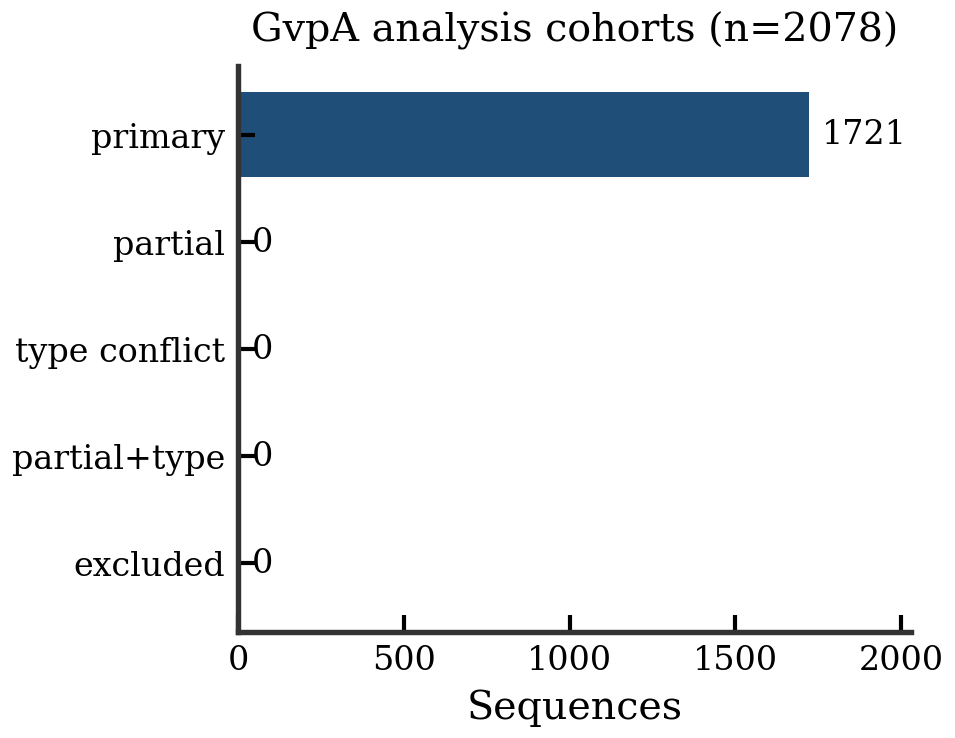
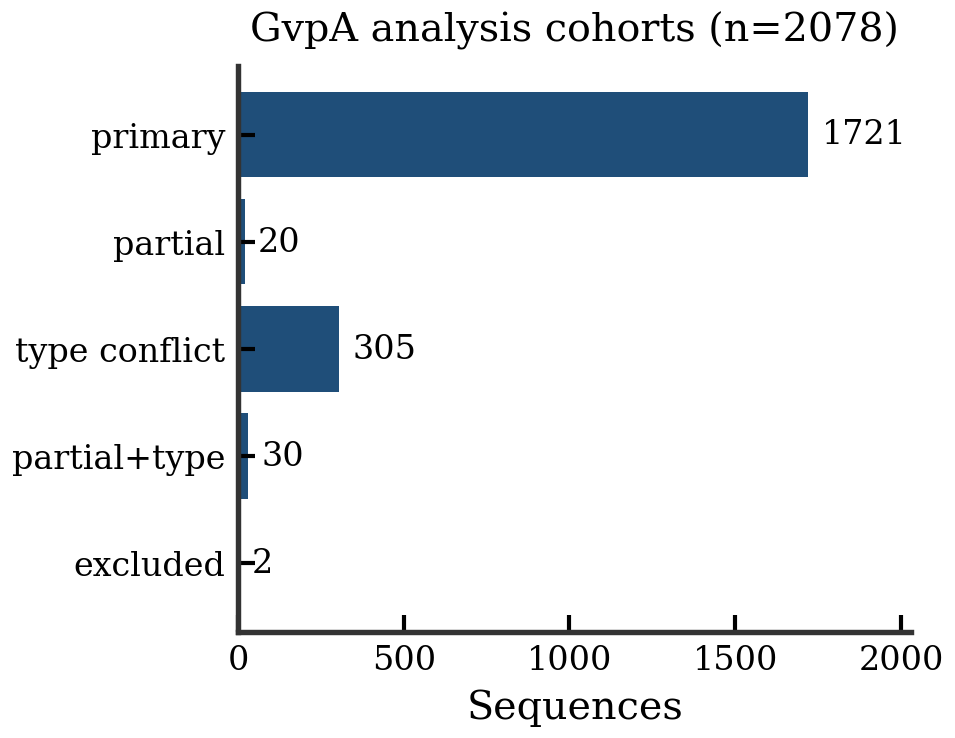
analysis: archive cohort rerun 002 and add byte-level artifact audit

diff --git a/scripts/audit_m2_artifacts.py b/scripts/audit_m2_artifacts.py
@@ -1,0 +1,105 @@
+"""Assistant/read-only byte-level check of M2 receipts and available local files.
+
+No download, shared-access verification, or independent-review signature is implied.
+"""
+from __future__ import annotations
+
+import argparse
+import hashlib
+import json
+import platform
+import subprocess
+import sys
+from datetime import datetime, timezone
+from pathlib import Path
+
+ROOT = Path(__file__).resolve().parents[1]
+
+
+def digest(value: bytes) -> str:
+    return hashlib.sha256(value).hexdigest()
+
+
+def git(*args: str) -> subprocess.CompletedProcess:
+    return subprocess.run(["git", *args], cwd=ROOT, capture_output=True, check=False)
+
+
+def audit(pdb_candidate: Path | None = None) -> dict:
+    scan = json.loads((ROOT / "results/bioinformatics/pf00741_scan_summary.json").read_text(encoding="utf-8"))
+    structure = json.loads((ROOT / "results/bioinformatics/structure_7r1c_summary.json").read_text(encoding="utf-8"))
+    rows = []
+    def check(label: str, path: Path, expected: str, source: str) -> None:
+        found = path.is_file()
+        actual = digest(path.read_bytes()) if found else None
+        row = {"artifact": label, "location_checked": path.as_posix(), "expected_sha256": expected,
+               "actual_sha256": actual, "expected_source": source,
+               "status": "match" if actual == expected else "mismatch" if found else "unverified_missing",
+               "shared_uri": None, "shared_access": "unverified; no location/access procedure supplied"}
+        if found and actual != expected:
+            normalized = digest(path.read_bytes().replace(b"\r\n", b"\n"))
+            row["lf_normalized_sha256_diagnostic_only"] = normalized
+            row["lf_matches_expected"] = normalized == expected
+        rows.append(row)
+
+    command = scan["command"]
+    for flag, key in [("--metadata", "metadata_sha256"), ("--fasta", "fasta_sha256"),
+                      ("--split-manifest", "split_manifest_sha256"), ("--audit-summary", "audit_summary_sha256"),
+                      ("--split-summary", "split_summary_sha256")]:
+        path = Path(command[command.index(flag) + 1])
+        check(path.as_posix(), path, scan["input"][key], "pf00741_scan_summary.input." + key)
+    out_dir = Path(command[command.index("--out-dir") + 1])
+    for name, value in scan["raw_output_sha256"].items():
+        check(name, out_dir / name, value, "pf00741_scan_summary.raw_output_sha256")
+    for receipt, source in [(scan, "pf00741_scan_summary"), (structure, "structure_7r1c_summary")]:
+        cmd = receipt["command"]
+        for flag, expected in [("--hmm", receipt["hmm"]["sha256"]),
+                               ("--hmm-receipt", receipt["hmm_download_receipt_sha256"])]:
+            check(source + flag, Path(cmd[cmd.index(flag) + 1]), expected, source)
+    cmd = structure["command"]
+    check("PDB recorded location", Path(cmd[cmd.index("--pdb") + 1]), structure["pdb_sha256"], "structure_7r1c_summary")
+    check("PDB download receipt", Path(cmd[cmd.index("--pdb-receipt") + 1]), structure["pdb_download_receipt_sha256"], "structure_7r1c_summary")
+    check("7R1C residue map", Path(cmd[cmd.index("--out-dir") + 1]) / structure["coordinate_map_filename"],
+          structure["coordinate_map_sha256"], "structure_7r1c_summary")
+    if pdb_candidate:
+        check("PDB alternative local snapshot; not the recorded/shared location", pdb_candidate,
+              structure["pdb_sha256"], "structure_7r1c_summary")
+    implementation = []
+    base = scan["git"]["commit"]
+    for key, path in [("workflow", "bioinformatics/m2_pf00741.py"), ("coordinates", "bioinformatics/m2_coordinates.py")]:
+        at_base = git("show", base + ":" + path)
+        current_blob = git("show", "HEAD:" + path)
+        current_bytes = (ROOT / path).read_bytes()
+        implementation.append({"path": path, "expected_sha256": scan["implementation_sha256"][key],
+                               "recorded_base_contains_file": at_base.returncode == 0,
+                               "base_blob_sha256": digest(at_base.stdout) if at_base.returncode == 0 else None,
+                               "current_blob_sha256": digest(current_blob.stdout),
+                               "current_worktree_sha256": digest(current_bytes),
+                               "worktree_matches_receipt": digest(current_bytes) == scan["implementation_sha256"][key],
+                               "blob_matches_receipt": digest(current_blob.stdout) == scan["implementation_sha256"][key]})
+    return {"kind": "assistant_technical_precheck_not_independent_review", "checked_utc": datetime.now(timezone.utc).isoformat(),
+            "checked_sha": git("rev-parse", "HEAD").stdout.decode().strip(),
+            "working_tree_dirty_at_check": bool(git("status", "--porcelain").stdout.strip()),
+            "command": ["python", *sys.argv], "python": platform.python_version(),
+            "artifacts": rows, "scan_git_receipt": scan["git"],
+            "recorded_scan_commit_exists": git("cat-file", "-e", base + "^{commit}").returncode == 0,
+            "implementation_checks": implementation, "structure_git_receipt": structure["git"],
+            "dirty_run_provenance": "unverified: no original dirty patch/full working tree or environment lock supplied",
+            "shared_storage_access": "unverified: only local/shared placeholder in receipt; Issue 15 has no access instructions",
+            "limits": ["Missing files are not verified by copying receipt hashes", "LF-normalized equality is diagnostic, not byte equality",
+                       "A matching alternative PDB proves file bytes only, not shared access or scan reproducibility"]}
+
+
+def main() -> None:
+    parser = argparse.ArgumentParser(description=__doc__)
+    parser.add_argument("--pdb-candidate", type=Path)
+    parser.add_argument("--out", type=Path, required=True)
+    args = parser.parse_args()
+    result = audit(args.pdb_candidate)
+    args.out.parent.mkdir(parents=True, exist_ok=True)
+    args.out.write_text(json.dumps(result, ensure_ascii=False, indent=2) + "\n", encoding="utf-8")
+    from collections import Counter
+    print(dict(Counter(row["status"] for row in result["artifacts"])))
+
+
+if __name__ == "__main__":
+    main()
